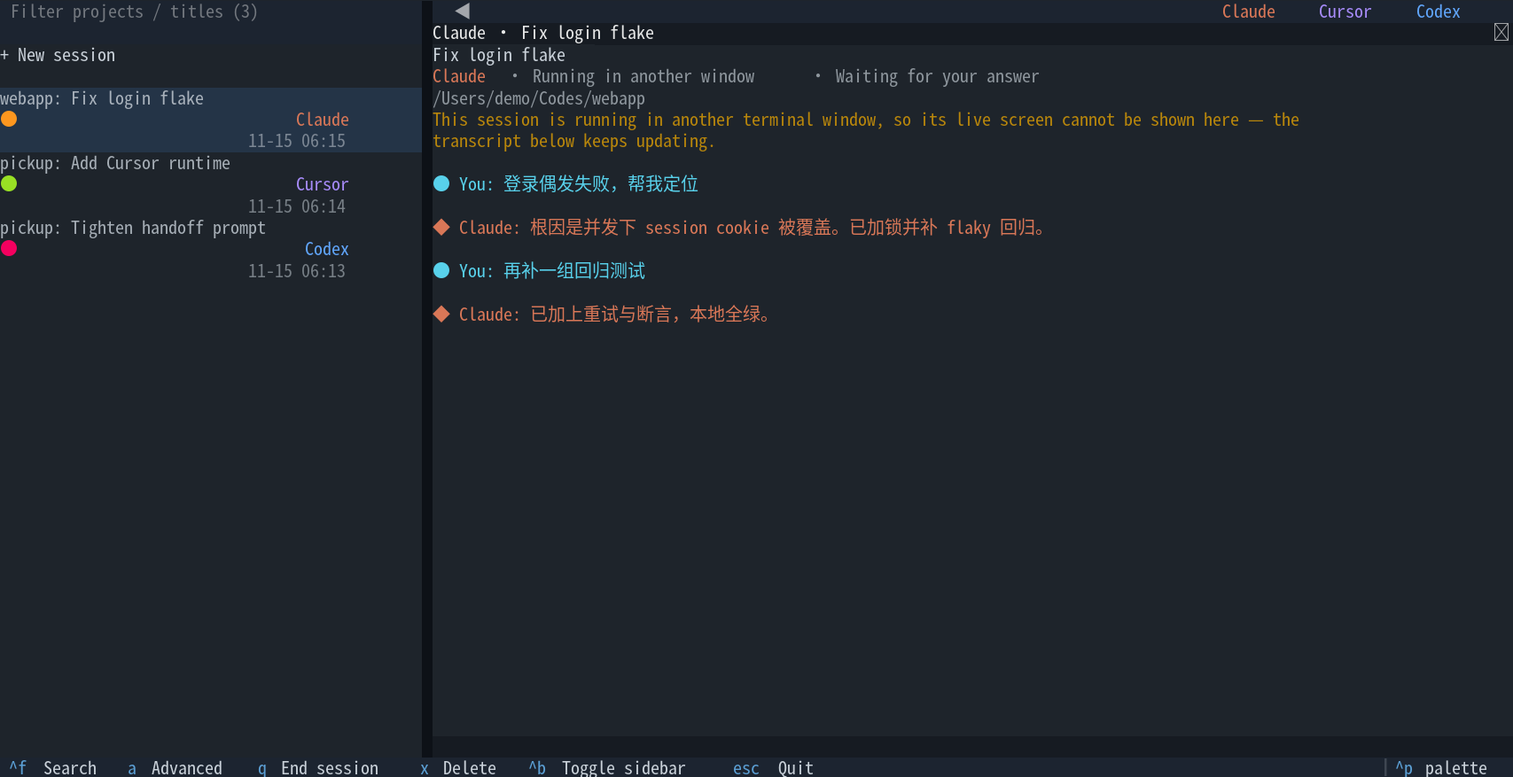
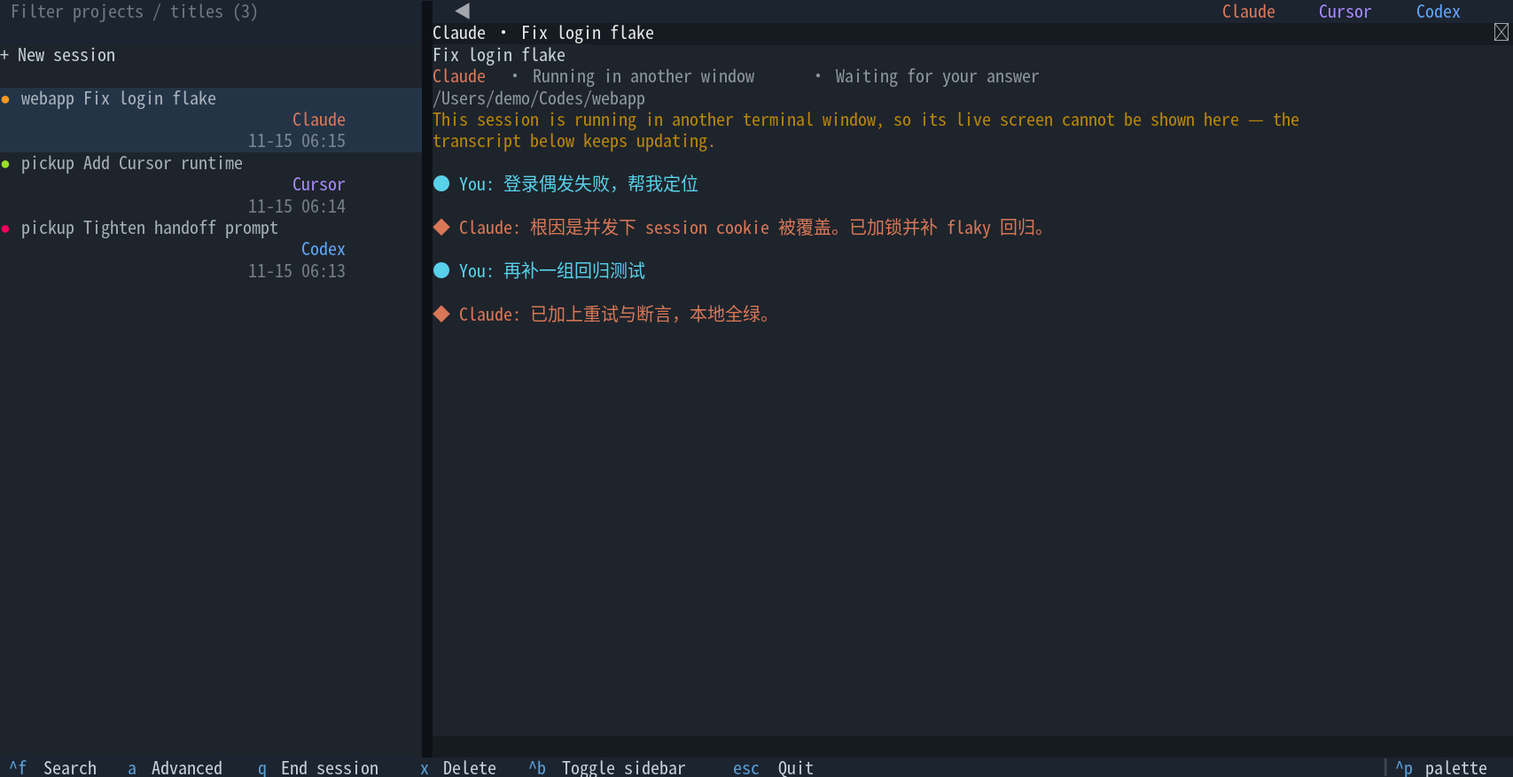
release: v0.24.25 关注圆点移到首行标题前
侧边栏会话卡首行改成「圆点 项目 标题」：圆点从第二行左侧挪到首行最左，项目名
与标题之间由冒号改为空格分隔。第二行只留靠右的运行时名，第三行仍是靠右的时间。

无关注状态的卡片不留占位空格：标题直接顶到最左并吃满整行宽度，截断预算按有无
圆点取 width - 2 或 width。

出图侧同步修一个观感问题：`●`（U+25CF）的 East Asian Width 是 Ambiguous，
Rich 按一格算、真实终端也按一格推进（已实测），但截图用的 CJK 字体会把它画成
两格宽、盖掉后面的分隔空格，出图看着像「●项目」。cairosvg 不做逐字形回退，
整段只用第一个可用字体族，所以不能把非 CJK 族前置（实测会让全部中文变豆腐块）；
改为只给「内容恰为该字形」的独立 <text> 元素单独换成非 CJK 等宽族，中文不受影响、
拉丁字宽也不变。产品侧的圆点字符与间距不动。

diff --git a/src/pickup/ui/session_list.py b/src/pickup/ui/session_list.py
@@ -3,7 +3,8 @@
 侧边栏布局硬约定（凡往左栏加控件都必须遵守，见 AGENTS.md / MAINTAINER_GUIDE）：
 搜索框/新建项最后一行是间隔空行，画在控件自身高度内并算进命中区；禁止用 margin
 或兄弟空隙做分隔。当前：搜索框高 2、新建项高 2、会话卡高 3（标题 / 运行时 /
-时间；第二行左侧关注状态圆点、右侧运行时，无末行空行）。
+时间；首行最左是关注状态圆点、随后是「项目 标题」，运行时与时间各自靠右，
+无末行空行）。
 
 业务格式化逻辑（相对时间、宽字符对齐、标题兜底）直接复用 pickup.py 里已测试的
 纯函数，这里只负责「怎么在 Textual 里画卡片、怎么响应选择」。
@@ -65,7 +66,7 @@ class SessionMultiToggleRequested(Message):
 
 
 class SessionCard(Widget):
-    """会话卡片：三行正文（总高 3）——标题 / 关注状态+运行时 / 时间。"""
+    """会话卡片：三行正文（总高 3）——关注圆点+项目+标题 / 运行时 / 时间。"""
 
     # Textual 默认所有 Widget 都允许鼠标拖拽文本选择（ALLOW_SELECT=True）；这类
     # 卡片是"点击=选中该会话"的列表项，不是可选文本内容，必须关掉——否则鼠标
@@ -80,8 +81,8 @@ class SessionCard(Widget):
         height: 3;
         width: 1fr;
         /* 标题行统一吃这里的基础色：满亮前景整栏铺开太扎眼，压到 8 成
-           （alpha 与当前背景混合，深浅色主题各自成立）。关注状态只由第二行
-           左侧圆点表达，避免整行标题变色压过真正需要用户处理的状态。 */
+           （alpha 与当前背景混合，深浅色主题各自成立）。关注状态只由首行最左
+           的圆点表达，避免整行标题变色压过真正需要用户处理的状态。 */
         color: $foreground 80%;
     }
     """
@@ -156,39 +157,41 @@ class SessionCard(Widget):
             else str(session.get("cwd_display") or t("project.unknown"))
         )
         multi_prefix = "▸ " if self._multi_selected else ""
-        title_prefix = f"{multi_prefix}{project}: "
+        title_prefix = f"{multi_prefix}{project} "
         width = max(10, self.size.width or 40)
 
         runtime = store.registry.get(str(session.get("source") or ""))
         runtime_name = runtime.display_name
         runtime_id = getattr(runtime, "id", None) or str(session.get("source") or "")
 
-        # 放不下就直接截断，不留 `...`：省略号本身要占 3 格，等于把最后几个
-        # 有效字符换成没有信息量的符号，宁可多显示几个字。
-        title_cell = pickup._fit_cell(title_prefix + title, width)
         attention_kind = str(session.get("attention_kind") or "none")
         dot_style = {
             "waiting": "bold yellow",
             "working": "bold green",
             "unread": "bold red",
         }.get(attention_kind)
-        runtime_cell = pickup._fit_cell_right(runtime_name, max(1, width - 2))
+        # 有圆点才让出「圆点 + 空格」这两列；没有圆点的卡片不留占位空格，标题
+        # 直接顶到最左并吃满整行宽度。
+        dot_width = 0 if dot_style is None else 2
+        # 放不下就直接截断，不留 `...`：省略号本身要占 3 格，等于把最后几个
+        # 有效字符换成没有信息量的符号，宁可多显示几个字。
+        title_cell = pickup._fit_cell(title_prefix + title, max(1, width - dot_width))
+        runtime_cell = pickup._fit_cell_right(runtime_name, width)
 
         relative_time = pickup._format_relative_time(session.get("mtime") or 0)
         time_cell = pickup._fit_cell_right(relative_time, width)
 
-        # 项目名与标题同一视觉层级：整行统一 bold。进行状态只在第二行用一个
-        # 圆点表达，标题本身不再随运行状态变色。
-        out = Text(title_cell)
-        content_len = len(title_cell.rstrip(" "))
-        if content_len > 0:
-            out.stylize("bold", 0, content_len)
-        out.append("\n")
-        if dot_style is None:
-            out.append("  ")
-        else:
+        # 项目名与标题同一视觉层级：整行统一 bold。进行状态只由首行最左的圆点
+        # 表达，标题本身不随运行状态变色。
+        out = Text()
+        if dot_style is not None:
             out.append("●", style=dot_style)
             out.append(" ")
+        content_len = len(title_cell.rstrip(" "))
+        out.append(title_cell)
+        if content_len > 0:
+            out.stylize("bold", dot_width, dot_width + content_len)
+        out.append("\n")
         out.append(runtime_cell, style=pickup.runtime_label_style(runtime_id))
         out.append("\n")
         out.append(time_cell, style="dim")

diff --git a/tests/test_attention_ui.py b/tests/test_attention_ui.py
@@ -112,7 +112,7 @@ class SessionAttentionCardTests(unittest.TestCase):
             with self.subTest(kind=kind):
                 rendered = self._render(kind)
                 lines = rendered.plain.splitlines()
-                self.assertEqual(lines[1].count("●"), 1)
+                self.assertEqual(lines[0].count("●"), 1)
                 dot = rendered.plain.index("●")
                 dot_spans = [span for span in rendered.spans if span.start <= dot < span.end]
                 self.assertTrue(
@@ -127,13 +127,29 @@ class SessionAttentionCardTests(unittest.TestCase):
         lines = rendered.plain.splitlines()
         self.assertEqual(len(lines), 3)
         self.assertEqual([pickup._text_width(line) for line in lines], [39, 39, 39])
-        self.assertTrue(lines[1].startswith("● "))
+        # 圆点在首行最左，紧跟一个空格再接「项目 标题」；运行时独占第二行靠右。
+        self.assertTrue(lines[0].startswith("● "))
         self.assertTrue(lines[1].endswith("Claude"))
+
+    def test_dotless_card_starts_title_at_leftmost_column(self) -> None:
+        """无圆点时不留占位空格：标题顶到最左，并吃满整行宽度。"""
+        plain = self._render("none").plain.splitlines()[0]
+        self.assertFalse(plain.startswith(" "))
+        self.assertTrue(plain.startswith("pickup "))
+        self.assertEqual(pickup._text_width(plain), 39)
+
+        # 有圆点的卡片才让出两列，标题可用宽度相应少 2。
+        dotted = self._render("waiting").plain.splitlines()[0]
+        self.assertTrue(dotted.startswith("● pickup "))
+        self.assertEqual(pickup._text_width(dotted), 39)
 
     def test_title_style_is_uniform_even_when_session_is_live(self) -> None:
         rendered = self._render("working", live=True)
         title_end = rendered.plain.index("\n")
-        title_spans = [span for span in rendered.spans if span.start < title_end]
+        # 首行前两列是圆点本身，它就该是绿的；这里只看圆点之后的标题文字。
+        title_spans = [
+            span for span in rendered.spans if 2 <= span.start < title_end
+        ]
         self.assertTrue(any("bold" in str(span.style).lower() for span in title_spans))
         self.assertFalse(any("green" in str(span.style).lower() for span in title_spans))
         self.assertFalse(any("#3f9a6a" in str(span.style).lower() for span in title_spans))

diff --git a/docs/screenshots/capture.py b/docs/screenshots/capture.py
@@ -48,7 +48,16 @@ from pickup.ui.app import PickupApp
 OUT_DIR = Path(__file__).resolve().parent
 
 # Rich/Textual SVG 默认 Fira Code，本机常无 CJK；换成 mono+CJK 本地字体，避免豆腐块。
+# CJK 字体必须排在最前：cairosvg 不做逐字形回退，整个文本段只用第一个可用
+# 字体族，把非 CJK 的 "Noto Sans Mono" 前置会让全部中文变成豆腐块（实测）。
 _FONT_CSS = '"Noto Sans Mono CJK SC", "Noto Sans CJK SC", "Droid Sans Fallback", monospace'
+# 代价：`●`（U+25CF）的 East Asian Width 是 Ambiguous，CJK 字体按两格宽画，会
+# 盖掉后面的分隔空格，出图看着像「●项目」。真实终端按一格推进（已实测），所以
+# 这是纯出图字体现象；用 _NARROW_GLYPH_FONT 只给这个字形单独换族来修，不要去改
+# 产品侧的圆点字符或间距。
+# 单引号故意的：这串会写进 SVG 的 style="…" 属性里，用双引号会把属性提前闭合。
+_NARROW_GLYPH_FONT = "'Noto Sans Mono', 'DejaVu Sans Mono', monospace"
+_NARROW_GLYPHS = "●"
 
 # 演示用外层终端底色：对齐左栏列表空区实测色 (#1e242b)，避免右栏垫成
 # pickup-dark $background (#0d1117) 后出现「半边深半边浅」的割裂感。
@@ -304,6 +313,14 @@ def _prepare_svg(svg_text: str) -> str:
     svg_text = re.sub(
         r'font-family:\s*"Fira Code"',
         f"font-family: {_FONT_CSS}",
+        svg_text,
+    )
+    # 侧边栏关注圆点在 SVG 里是独立 `<text>`（内容就一个字形、不含中文），只给
+    # 这类元素换成非 CJK 等宽族，圆点就按一格宽画、不再吃掉后面的分隔空格。必须
+    # 限定「内容恰为该字形」：右栏对话里的 `●` 与中文同段，换族会整段变豆腐块。
+    svg_text = re.sub(
+        rf"(<text\b[^>]*)(>[{_NARROW_GLYPHS}]</text>)",
+        rf'\1 style="font-family: {_NARROW_GLYPH_FONT}"\2',
         svg_text,
     )
     svg_text = re.sub(r'\s+textLength="[^"]*"', "", svg_text)

diff --git a/tests/test_ui.py b/tests/test_ui.py
@@ -1122,8 +1122,8 @@ class SessionCardVisualTests(unittest.TestCase):
         )
 
     def test_sidebar_shows_no_generating_spinner(self) -> None:
-        """标题生成期间侧边栏不再显示任何「加载中」转圈动画：首行直接以
-        项目名开头，不出现 braille spinner 帧或任何转圈占位字符。"""
+        """标题生成期间侧边栏不再显示任何「加载中」转圈动画：无关注圆点时首行
+        直接以项目名开头，不出现 braille spinner 帧或任何转圈占位字符。"""
         card = self._card()
         with mock.patch.object(
             SessionCard, "size", new_callable=mock.PropertyMock, return_value=Size(39, 3),
@@ -1131,7 +1131,7 @@ class SessionCardVisualTests(unittest.TestCase):
             rendered = card.render()
 
         first_line = rendered.plain.splitlines()[0]
-        self.assertTrue(first_line.startswith("pickup: "))
+        self.assertTrue(first_line.startswith("pickup "))
         for frame in pickup.SPINNER_FRAMES:
             self.assertNotIn(frame, first_line)
 

diff --git a/src/pickup/__init__.py b/src/pickup/__init__.py
@@ -9,7 +9,7 @@ from __future__ import annotations
 import importlib
 import sys as sys
 
-__version__ = "0.24.24"
+__version__ = "0.24.25"
 
 _MODULE_EXPORTS = {
     "embed", "keepalive", "titles", "updater", "split_layout", "observe", "theme", "search",

diff --git a/docs/TERMINAL_UI_KNOWLEDGE_BASE.md b/docs/TERMINAL_UI_KNOWLEDGE_BASE.md
@@ -35,7 +35,7 @@ pickup 的价值是让用户从一个终端界面中继续或接力不同 Coding
 | 高级操作 | 对当前会话选择同运行时恢复或跨运行时接力 | `a` → `choose_target_runtime()` |
 | 删除会话 | 彻底抹掉选中会话的本地历史，不可恢复；运行中/托管会话先结束再删 | `x` → `ConfirmModal(confirm_key="x")` → `action_delete_session()` |
 | 对话预览 | 右栏展示非进行中会话的完整对话 | 不是旧的“最近提问 / 最近回复”摘要，也不是 Space 全屏页 |
-| 会话关注状态 | 左栏第二行左侧用单个圆点提示下一步是否需要用户关注 | 等待回答黄 > 执行中绿 > 未读新结果红 > 无；详情头同步写出状态，不只靠颜色；不等于标题模块或机器接口的业务状态标签 |
+| 会话关注状态 | 左栏首行最左用单个圆点提示下一步是否需要用户关注 | 等待回答黄 > 执行中绿 > 未读新结果红 > 无；详情头同步写出状态，不只靠颜色；不等于标题模块或机器接口的业务状态标签 |
 | 内嵌实时终端 | 右栏展示**已托管**会话的实时画面 | 本域只负责挂接 `EmbedPane`；tmux 抓帧与控制通道属于“内嵌实时终端”域 |
 | 运行中(其他窗口) | 在本机跑着、但不在保活 socket 里的会话（用户自己开窗口起的） | 右栏只能给静态对话预览 + 详情头明示原因；拿不到实时画面，打开它等于另起恢复进程，见 [内嵌实时终端知识库](EMBEDDED_TERMINAL_KNOWLEDGE_BASE.md) §1 |
 | Footer 操作 | 页面底部可发现的快捷操作提示 | Textual `Footer` 从 `MainScreen.BINDINGS` 读取文案 |
@@ -124,7 +124,7 @@ stateDiagram-v2
 
 ### 侧边栏关注状态
 
-会话卡固定三行：第一行是统一基础样式的「项目: 标题」，第二行左侧是关注圆点、右侧是运行时，第三行右侧是时间。标题不再因会话运行中而整行变绿；状态只由圆点和详情头文字表达。
+会话卡固定三行：第一行最左是关注圆点，之后隔一个空格接统一基础样式、空格分隔且不带冒号的「项目 标题」；无圆点时不留占位空格，标题顶到最左并吃满整行；第二行右侧是运行时，第三行右侧是时间。标题不再因会话运行中而整行变绿；状态只由圆点和详情头文字表达。
 
 | 优先级 | 圆点 | 业务语义 | 产生条件 |
 |---|---|---|---|
@@ -175,7 +175,7 @@ stateDiagram-v2
 | 选中会话后决定右栏 | `ui/main_screen.py` | `_follow_current_selection()`、`_render_detail()`、`_warm_conversation()` | 非进行中显示完整对话；托管会话挂到右栏实时画面；「运行中(其他窗口)」也只有完整对话，详情头额外写明拿不到实时画面的原因（`_status_key()` / `is_external_running()`） |
 | 侧边栏筛选项目 | `ui/main_screen.py`、`ui/nav.py`、`pickup.py` | `on_input_changed()`、`NavState.project_query`、`_filter_sessions_by_query()` | 查询只有一份状态；按项目名、路径、标题进行大小写无关模糊匹配 |
 | 全文搜索对话正文 | `ui/search_modal.py`、`search.py`、`ui/main_screen.py` | `FullTextSearchModal`、`ConversationIndex`、`action_search_content()`、`_warm_search_index()`、`_reveal_session()` | `Ctrl+F` 打开；索引在首屏扫描完成后由后台线程预热，弹窗打开时未就绪则自己再建一次并显示进度；结果按会话时间由新到旧排，选中后跳回侧边栏定位 |
-| 会话卡片、关注状态和列宽 | `ui/session_list.py` | `SessionCard.render()`、`SessionListView.rebuild()` | 固定三行：统一基础标题 / 第二行左侧单圆点且运行时靠右 / 时间靠右；圆点优先级黄 > 绿 > 红；首行放不下时按显示宽度硬截断、不写省略号 |
+| 会话卡片、关注状态和列宽 | `ui/session_list.py` | `SessionCard.render()`、`SessionListView.rebuild()` | 固定三行：首行「圆点 项目 标题」/ 运行时靠右 / 时间靠右；圆点优先级黄 > 绿 > 红；首行按有无圆点取 `width - 2` / `width` 硬截断、不写省略号 |
 | 状态详情与已读确认 | `ui/main_screen.py`、`store.py` | 详情头状态、稳定可见计时、`SessionStore.mark_session_read()` | 详情头同时给出文字状态；只有红点在右侧成功稳定可见 0.5 秒后清除，切换、失败或失焦取消 |
 | 新建会话 | `ui/main_screen.py`、`ui/modals.py` | `new_session_flow()`、`pick_project()`、`pick_runtime_for_new_session()`、`_on_runtime_pick()` | 侧边栏「＋ 新建」走项目→运行时；右栏顶栏点助手在当前项目加格。底栏不再绑 `n` |
 | 高级操作与结束确认 | `ui/main_screen.py`、`ui/modals.py` | `action_handoff()`、`choose_target_runtime()`、`ConfirmModal` | 高级操作动态读取注册运行时；结束操作先确认 |
@@ -232,7 +232,7 @@ stateDiagram-v2
 ## §6 核心业务规则与隐性约束
 
 - **AI 易错点**【禁止】恢复旧的全屏预览或纯列表第二套界面。非进行中会话在右栏直接展示完整对话，已托管会话在右栏挂接内嵌实时终端；「运行中(其他窗口)」走完整对话那一路（它不在任何 tmux 里，抓不到画面）。Space 全屏预览已经退役。原因：双入口会使按键、滚动、选择和展示语义重新分叉。
-- **AI 易错点**【侧边栏末行间隔与关注圆点】搜索框、新建会话项和未来新增的左栏控件，最后一行必须是控件自身高度内的间隔空行；搜索框高 2、新建项高 2。会话卡固定高 3，三行正文（统一基础标题 / 第二行左侧单圆点且运行时靠右 / 时间靠右），不再另加末行空行；禁止恢复整行绿色标题。禁止用 `margin`、兄弟空隙或 `ListItem` padding 做分隔，因为点击空隙不会命中本项，选中高亮也不完整。
+- **AI 易错点**【侧边栏末行间隔与关注圆点】搜索框、新建会话项和未来新增的左栏控件，最后一行必须是控件自身高度内的间隔空行；搜索框高 2、新建项高 2。会话卡固定高 3，三行正文（首行「圆点 项目 标题」，无圆点时标题顶到最左、不留占位空格 / 运行时靠右 / 时间靠右），不再另加末行空行；禁止恢复整行绿色标题。禁止用 `margin`、兄弟空隙或 `ListItem` padding 做分隔，因为点击空隙不会命中本项，选中高亮也不完整。
 - **AI 易错点**【关注状态优先级固定】只显示一个圆点，必须按等待回答黄 > 执行中绿 > 未读新结果红 > 无裁决；等待回答必须来自结构化问题，不可用普通问号或自然语言关键词猜测。黄绿不重叠：黄点只在真正等待用户输入时覆盖绿点，普通执行过程仍显示绿点。
 - **AI 易错点**【红点不是选中即已读】只有右侧对应内容成功加载且稳定可见 0.5 秒才清红；快速掠过、加载失败、选择变化和应用失焦都必须取消计时。查看不能清黄点/绿点。首次升级的历史结果按已读基线处理，但当前执行/等待仍照常显示。
 - **AI 易错点**【圆点不干预时间线】关注状态不得参与排序、筛选、计数或机器接口既有状态字段，也不派生声音/系统通知。列表仍遵守原有稳定顺序；详情头提供文字状态以避免只靠颜色。
@@ -294,7 +294,7 @@ python3 -m unittest discover -s tests -p 'test_ui.py' -v
 python3 docs/screenshots/capture.py
 ```
 
-检查 `docs/screenshots/list.png`：左栏搜索框、新建会话、会话卡的末行间隔是否连续可点击；会话卡是否固定三行、第二行圆点与运行时左右对齐、标题未整行变绿；右栏是否为完整对话且详情头有文字状态；Footer 是否存在；中英文、宽字符与截断是否错乱；不得出现“最近提问 / 最近回复”或“连接中”。
+检查 `docs/screenshots/list.png`：左栏搜索框、新建会话、会话卡的末行间隔是否连续可点击；会话卡是否固定三行、首行圆点在最左、无圆点的卡片标题顶到最左不留空格、运行时与时间靠右、标题未整行变绿；右栏是否为完整对话且详情头有文字状态；Footer 是否存在；中英文、宽字符与截断是否错乱；不得出现“最近提问 / 最近回复”或“连接中”。
 
 检查 `docs/screenshots/search.png`（全文搜索弹窗）：输入框是**单行、无边框**（Textual 的 `Input:focus` 会自带一圈边，压不住就会出现「外框套内框」两层边）；状态行的英文单复数正确（`1 session matched` 而不是 `1 sessions matched`）；每条结果是「项目: 标题 / 运行时 · 时间 · N 处命中 / 命中行」，关键词按 `$warning` 高亮；Footer 出现 `^f Search`。**PNG 里中文命中行的关键词两侧会出现明显空隙，这是 Rich SVG → cairosvg 对「同一行里换了样式的 CJK 文本」算错字符前进宽度的导出伪影，不是产品回归**——判定方法是直接断言 `SearchResultRow.render().plain`，真实终端和 `.plain` 里都没有多余空格。
 

diff --git a/AGENTS.md b/AGENTS.md
@@ -71,7 +71,7 @@
 - 同运行时使用原生恢复；跨运行时必须新建目标会话、让目标 Agent 按需读取原始 JSONL，不能改写或伪造原会话。
 - 标题生成是独立服务，不属于任何运行时适配器。生成后端统一走 `titlegen.py` 的 `TitleGenerator` 抽象，`titles.py` 不得直接拼接任何 CLI 命令；`titlegen.py` 与 `runtime/` 互不 import——运行时适配器管「怎么恢复/接力会话」，标题生成器管「怎么无头问一次模型」，两者后端恰好重名但职责不同，不要合并。标题和界面状态使用“运行时 + 会话 ID”作为唯一键，新增运行时不得退回纯会话 ID。新增标题生成后端时，若该 CLI 会把生成调用落盘成会话历史，对应扫描器必须加 `titles.PROMPT_MARKER` 前缀过滤。
 - 会话预览：选中非进行中会话时，右栏直接展示完整对话（**默认钉在最新消息**，上滚看更早；用户离开底部后列表刷新不得强行钉回）；已托管会话右栏展示内嵌实时终端。**在别的终端窗口里跑、没被 pickup 托管的会话（`live` 且无 `keepalive_name`）拿不到实时画面**——右栏走完整对话那一路并在详情头写明原因，打开它必须先确认（那是对同一份历史另起恢复进程，不是接管），细则见 `docs/EMBEDDED_TERMINAL_KNOWLEDGE_BASE.md` §1。唯一界面是左栏会话列表 + 右栏（可最多三格均分内嵌终端），禁止再加回全屏预览或纯列表第二套入口。右侧顶栏可点选已安装助手在当前项目下加格；活跃会话的分屏组合记忆见 `split_layout.py`（`~/.cache/pickup/split-layout.json`）。细则与 `_detail_stick_bottom` 见 `docs/TERMINAL_UI_KNOWLEDGE_BASE.md` / `docs/MAINTAINER_GUIDE.md`。
-- **侧边栏末行间隔与关注圆点（硬约定）**：凡往左栏加控件（搜索框、新建项、未来任何块），**最后一行必须是间隔空行**，画在该控件自身高度内并算进命中区与选中高亮；禁止用 `margin`、兄弟空隙或 `ListItem` padding 做分隔（点在空隙上不会落到本项）。会话卡例外：固定三行正文、高度 3，不再另加末行空行；标题统一使用基础标题样式，不因运行中整行变绿；第二行左侧只放一个关注圆点（等待回答黄 > 执行中绿 > 未读新结果红 > 无），运行时仍靠右；第三行时间靠右。圆点不得参与排序、筛选或计数。当前基准：搜索框高 2、新建项高 2、会话卡高 3。细则见 `docs/TERMINAL_UI_KNOWLEDGE_BASE.md` / `docs/MAINTAINER_GUIDE.md`「界面」节。
+- **侧边栏末行间隔与关注圆点（硬约定）**：凡往左栏加控件（搜索框、新建项、未来任何块），**最后一行必须是间隔空行**，画在该控件自身高度内并算进命中区与选中高亮；禁止用 `margin`、兄弟空隙或 `ListItem` padding 做分隔（点在空隙上不会落到本项）。会话卡例外：固定三行正文、高度 3，不再另加末行空行；标题统一使用基础标题样式，不因运行中整行变绿；**首行最左是关注圆点**（等待回答黄 > 执行中绿 > 未读新结果红 > 无），圆点后接一个空格再接空格分隔的「项目 标题」（**不带冒号**）；**无圆点时不留占位空格**，标题直接顶到最左并吃满整行宽度（截断宽度按有无圆点取 `width - 2` 或 `width`）；第二行运行时靠右、第三行时间靠右。圆点不得参与排序、筛选或计数。圆点字符 `●` 的 East Asian Width 是 Ambiguous：Rich 按 1 格算，把它放进首行文本流时必须让宽度预算与 Rich 一致，不要按「CJK 字体看起来占 2 格」去补偿；出图时 `docs/screenshots/capture.py` 只给「内容恰为该字形」的独立 `<text>` 换成非 CJK 等宽族来修观感。当前基准：搜索框高 2、新建项高 2、会话卡高 3。细则见 `docs/TERMINAL_UI_KNOWLEDGE_BASE.md` / `docs/MAINTAINER_GUIDE.md`「界面」节。
 - `agent_api.py`（`pickup list`/`search`/`show`/`export`/`context`/`describe`）是只读数据接口，禁止新增任何执行/拉起副作用命令——pickup 只负责把会话数据交出来，怎么用是调用方的事。暴露更多可见性字段（如运行中会话的 `live`/`pid`）不违反这条约束，只要新字段本身来自扫描/只读探测、不触发任何拉起或写操作；真正"接管/下发指令给运行中会话"的能力不属于 pickup，留给调用方基于这些数据自行实现。命令参数与 `pickup describe` 的输出必须共用同一份 `COMMANDS` 定义，不能各写一份导致漂移。新增或修改子命令时同步 `docs/SKILL.md`。
 - Agent 接口里 `list`/`search` 的 `--limit` 固定表示每个运行时的扫描深度，`--top` 才表示最终返回条数；`--compact` 必须同时做到紧凑 JSON 和精简默认字段。改这三个参数或 `show --out` 大结果落盘行为时，同步 `pickup describe`、`docs/SKILL.md` 和 `docs/MAINTAINER_GUIDE.md`。
 - 会话保活（`keepalive.py`）是运行时无关的启动包装层，只在 `registry` 生成 `LaunchPlan` 之后、`execute_launch` 之前介入，禁止塞进 `runtime/` 某个具体适配器，也禁止让适配器感知 tmux 的存在。改保活匹配/回收逻辑前先读 `docs/MAINTAINER_GUIDE.md`「会话保活」节。`pickup claude`/`pickup codex` 直启子命令默认带 `_DirectLaunch` 进 TUI、经 `embed.host_session` 托管（与界面内「新建会话」同一路径），托管成功后必须立即登记侧边栏占位卡，禁止等待运行时写出首条历史；扫描器随后发现真实历史、占位卡转正时，侧边栏选中态与右栏分屏键必须一起迁移，不能退回「＋ 新建会话」空态；仅非真实终端 / `--no-keepalive` / 内嵌不可用时退回 `keepalive.enabled`/`wrap_plan` + `execute_launch` 旧路径（保活的第三个调用点，与 TUI 的 `_launch()` 复用同一套开关语义）。

diff --git a/README.zh-CN.md b/README.zh-CN.md
@@ -126,9 +126,9 @@ JSON 输出包含助手、会话 ID、标题、工作目录、更新时间、大
 
 ## 内嵌面板（同时处理多个会话）
 
-`pickup` 是一条统一按时间排序的会话时间线：Claude Code、Codex CLI、OpenCode、Kimi Code 和 Cursor Agent 的会话混在同一个列表里，而不是按助手分标签页。每张卡片占三行，分别是「项目: 标题」、关注圆点与助手名、更新时间。标题正在生成时卡片只显示兜底标题、不画加载动画，生成好了再就地刷新。右侧跟随选中项：已结束的会话展示完整对话并钉在最新消息，已托管的会话则渲染实时终端。右侧上方的助手按钮可以在同一项目下再加一格，最多三格并排，且这个组合会被记住。列表一旦显示出来顺序就是稳定的——卡片不会因为内容更新而跳来跳去，只有真正新增的会话才会出现，且总是插在最上面。
+`pickup` 是一条统一按时间排序的会话时间线：Claude Code、Codex CLI、OpenCode、Kimi Code 和 Cursor Agent 的会话混在同一个列表里，而不是按助手分标签页。每张卡片占三行，分别是「圆点 项目 标题」、助手名、更新时间。标题正在生成时卡片只显示兜底标题、不画加载动画，生成好了再就地刷新。右侧跟随选中项：已结束的会话展示完整对话并钉在最新消息，已托管的会话则渲染实时终端。右侧上方的助手按钮可以在同一项目下再加一格，最多三格并排，且这个组合会被记住。列表一旦显示出来顺序就是稳定的——卡片不会因为内容更新而跳来跳去，只有真正新增的会话才会出现，且总是插在最上面。
 
-第二行左侧的小圆点刻意只表达最需要关注的一件事：
+首行最左的小圆点刻意只表达最需要关注的一件事：
 
 - 黄点——助手提出了结构化问题，正在等你回答；
 - 绿点——当前轮仍在执行，且没有等待回答；

diff --git a/README.md b/README.md
@@ -129,7 +129,7 @@ The derived cache defaults to 256 MiB and invalidates entries whenever the sourc
 
 `pickup` is a unified, time-ordered session timeline: Claude Code, Codex CLI, OpenCode, Kimi Code,
 and Cursor Agent sessions appear in one list rather than separate runtime tabs. Each card uses three
-rows for `project: title`, attention dot plus runtime, and update time. While a title is being generated the
+rows for `<dot> project title`, runtime, and update time. While a title is being generated the
 card just shows its fallback title with no loading animation, then updates in place once the generated
 title lands. The right side follows the selection: finished sessions show their full
 conversation pinned to the newest message, while hosted sessions render live terminals. The runtime
@@ -137,7 +137,7 @@ buttons above the right side can add another agent in the same project, up to th
 the active pane combination is remembered. Once the list is shown its order is stable — cards never jump
 around when their content updates; only genuinely new sessions appear, always prepended at the top.
 
-The small dot on the left of row two is intentionally simple:
+The small dot at the very start of row one is intentionally simple:
 
 - yellow — the agent asked a structured question and is waiting for your answer;
 - green — the current turn is still running and is not waiting for an answer;
